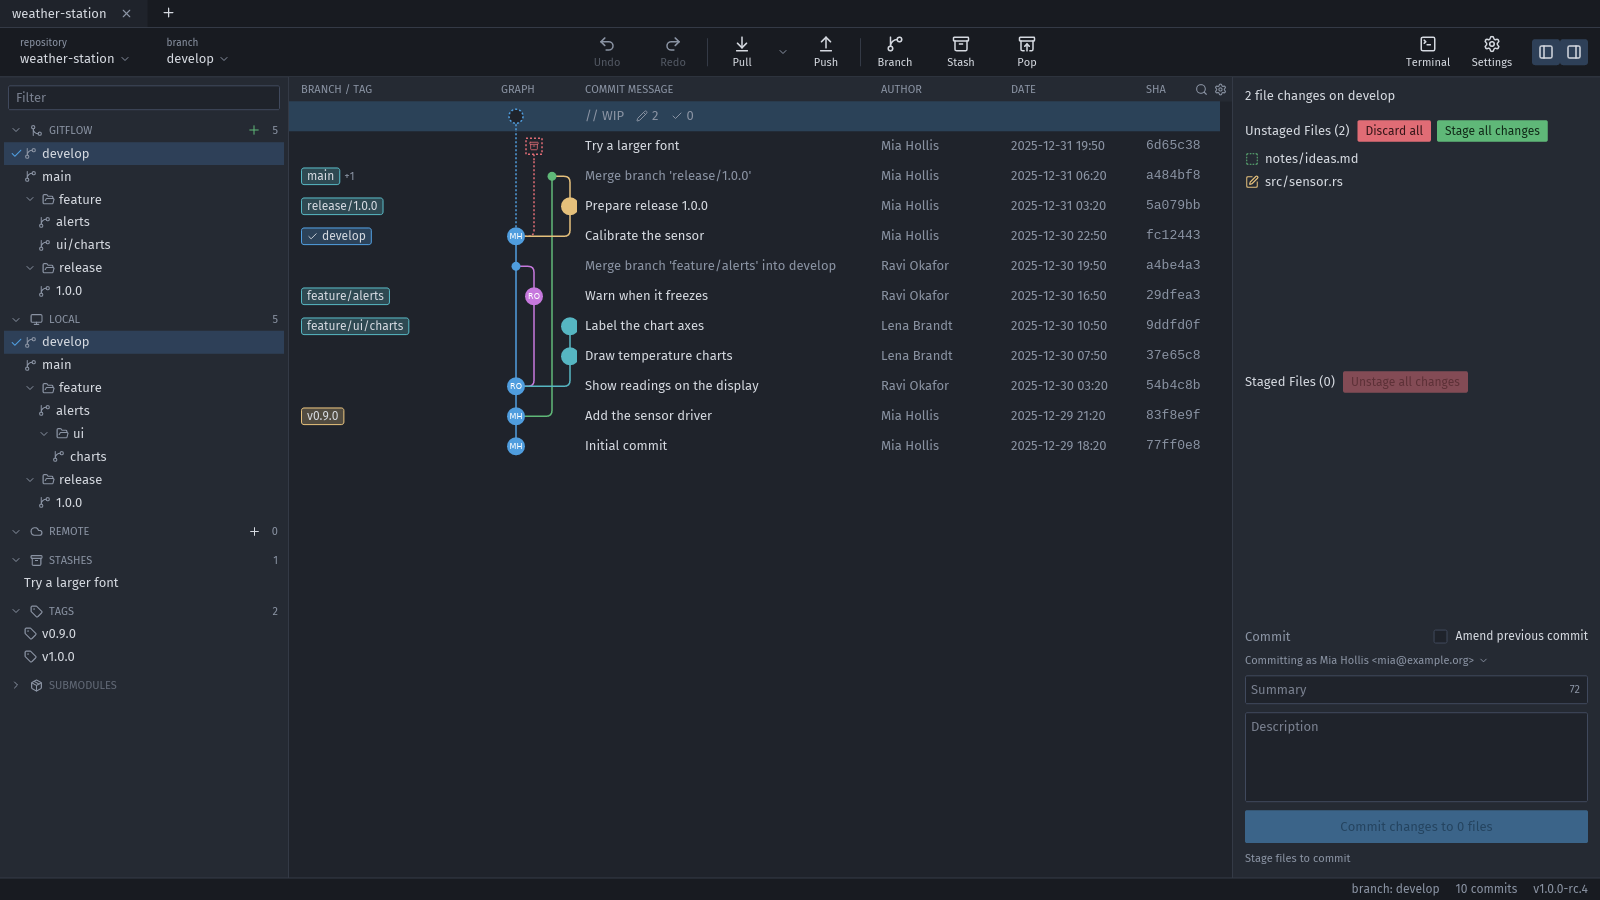
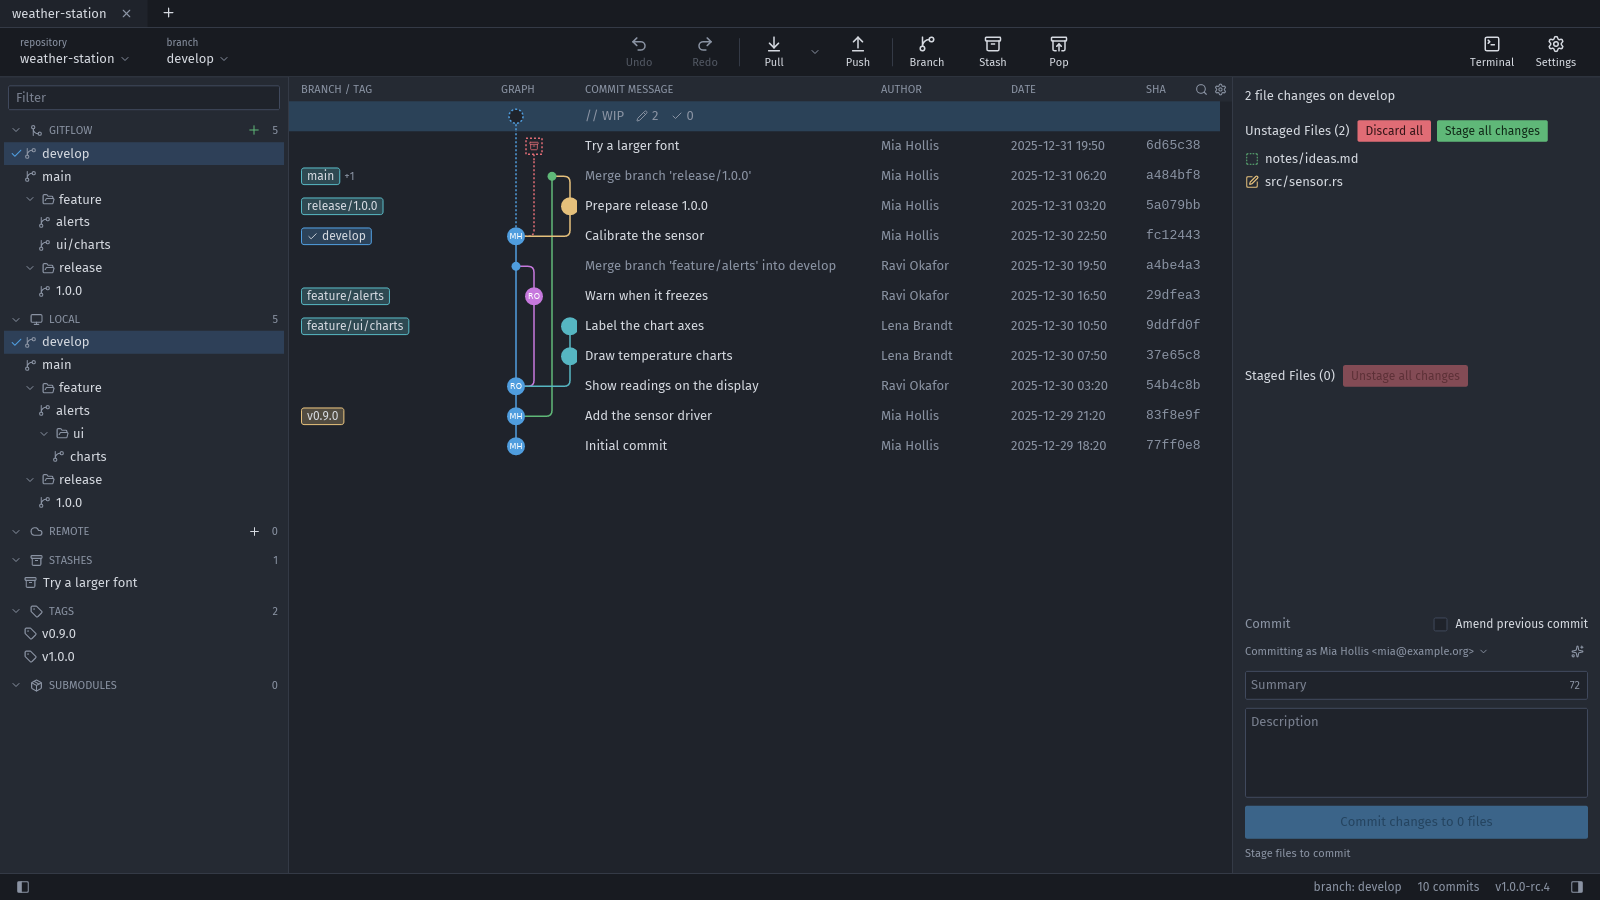
docs: close M12, M13 current
Claude-Session: https://claude.ai/code/session_018B6pd9LNZJ28fgBZrsbgwN

diff --git a/docs/milestones/M12-workflow-polish.md b/docs/milestones/M12-workflow-polish.md
@@ -76,19 +76,19 @@ Open:
 
 ## Milestone acceptance
 
-- [ ] Selected files deselect on click; hover shows only Stage/Unstage.
-- [ ] Remote websites open from the context menu and the palette for all URL forms; local remotes show no entry.
-- [ ] Conflict view navigation and headers like GitKraken.
-- [ ] Merge, rebase, cherry-pick, revert and stash conflicts show the graph row, the panel header, Conflicted/Resolved Files, "Mark all resolved" and the commit/abort buttons; the tab banner is gone; every state has a visible way back (ADR-044).
-- [ ] Submodules: status, update (also all), open in tab, out-of-date toast; works with nested submodules.
-- [ ] Informational errors appear as toasts with plain-language text and details; decisions stay modals.
-- [ ] Every action listed under "Undo" in the decisions table is undoable and redoable with the stated preconditions; `docs/user/undo.md` complete (ADR-043).
-- [ ] STASHES shows folders; a stash can be renamed in place (position kept); undo and redo restore the exact stash list.
-- [ ] Several branches and tags can be selected with Ctrl/Shift and deleted in one step; the local part is one undo step; remote deletion is confirmed as not undoable.
-- [ ] The palette toggles every boolean setting, offers the listed choices and jumps to any setting.
-- [ ] The sparkle button opens the commit message prompt; disabled without staged changes.
-- [ ] WSL repositories show the notice and the badge, refresh by polling, and "dubious ownership" offers "Trust this repository…".
-- [ ] User guide, UX-PARITY, release checklist and CHANGELOG updated; `./scripts/check.sh` green; CI green.
+- [x] Selected files deselect on click; hover shows only Stage/Unstage.
+- [x] Remote websites open from the context menu and the palette for all URL forms; local remotes show no entry.
+- [x] Conflict view navigation and headers like GitKraken.
+- [x] Merge, rebase, cherry-pick, revert and stash conflicts show the graph row, the panel header, Conflicted/Resolved Files, "Mark all resolved" and the commit/abort buttons; the tab banner is gone; every state has a visible way back (ADR-044).
+- [x] Submodules: status, update (also all), open in tab, out-of-date toast; works with nested submodules.
+- [x] Informational errors appear as toasts with plain-language text and details; decisions stay modals.
+- [x] Every action listed under "Undo" in the decisions table is undoable and redoable with the stated preconditions; `docs/user/undo.md` complete (ADR-043).
+- [x] STASHES shows folders; a stash can be renamed in place (position kept); undo and redo restore the exact stash list.
+- [x] Several branches and tags can be selected with Ctrl/Shift and deleted in one step; the local part is one undo step; remote deletion is confirmed as not undoable.
+- [x] The palette toggles every boolean setting, offers the listed choices and jumps to any setting.
+- [x] The sparkle button opens the commit message prompt; disabled without staged changes.
+- [x] WSL repositories show the notice and the badge, refresh by polling, and "dubious ownership" offers "Trust this repository…".
+- [x] User guide, UX-PARITY, release checklist and CHANGELOG updated; `./scripts/check.sh` green; CI green.
 
 No release (ADR-042): when all tasks are done, continue with M13.
 

diff --git a/docs/ROADMAP.md b/docs/ROADMAP.md
@@ -2,7 +2,7 @@
 
 ## Current milestone
 
-**M12 – Workflow polish** → [`milestones/M12-workflow-polish.md`](milestones/M12-workflow-polish.md)
+**M13 – Git flow graph layout** → [`milestones/M13-gitflow-graph-layout.md`](milestones/M13-gitflow-graph-layout.md)
 
 Single release line (ADR-042): everything from M7 on ships with **1.0.0**. Milestones end without a release; Claude Code continues with the next planned milestone. 1.0.0 (M6-15) is released from `develop` after M14 and the maintainer's full run of `docs/RELEASE-CHECKLIST.md`, only when the maintainer asks.
 
@@ -28,8 +28,8 @@ Safe to use for beginners: every local action can be undone and lands exactly in
 | M9 | 1.0.0 | Fixes and consistency | Done |
 | M10 | 1.0.0 | Clone, init and Git settings | Done |
 | M11 | 1.0.0 | Graph columns, themes and syntax highlighting | Done |
-| M12 | 1.0.0 | Workflow polish | Current |
-| M13 | 1.0.0 | Git flow graph layout | Planned |
+| M12 | 1.0.0 | Workflow polish | Done |
+| M13 | 1.0.0 | Git flow graph layout | Current |
 | M14 | 1.0.0 | Commit details like GitKraken | Planned |
 
 The planning chat details the next milestones ahead of time so that Claude Code never waits (ADR-042).
@@ -95,7 +95,7 @@ Details: [`milestones/M10-clone-init-settings.md`](milestones/M10-clone-init-set
 
 Details: [`milestones/M11-graph-themes-highlighting.md`](milestones/M11-graph-themes-highlighting.md).
 
-### M12 – Workflow polish (current)
+### M12 – Workflow polish (done)
 
 - File lists: a click on the selected file deselects it (the diff closes); hover shows only Stage/Unstage, per-file Discard moves to the context menu (deviation, maintainer decision 2026-11-10).
 - Remotes: "Open on GitHub/GitLab/Bitbucket" (other hosts "Open in browser") in the remote context menu and the palette; repository start page only, URL derived offline.
@@ -103,10 +103,11 @@ Details: [`milestones/M11-graph-themes-highlighting.md`](milestones/M11-graph-th
 - Submodules: list with status (not initialized, out of date, modified), Update/Initialize, out-of-date hint after checkout and pull, double click opens in a new tab, section always shown with its count like GitKraken. No add/remove.
 - Errors as non-modal toasts (bottom left like GitKraken) with plain-language text, Details and Copy; a modal only when a decision is needed; plain-language texts for common Git errors.
 - Undo coverage (ADR-043): stash push and drop, stage/unstage, "mark resolved", the local part of pull, remotes and upstream, submodule update; settings are not undo entries (ADR-043 amended).
+- Also done: STASHES folders and rename, multi-selection with bulk delete, palette settings toggles and deep links (Ctrl+Shift+P), commit prompt button, WSL notice and trust prompt; fixes: panel toggles in the status bar, Classic Dark removed (ADR-054).
 
 Details: [`milestones/M12-workflow-polish.md`](milestones/M12-workflow-polish.md).
 
-### M13 – Git flow graph layout (planned)
+### M13 – Git flow graph layout (current)
 
 When Git flow is initialized, an optional layout draws the graph like the classic Git flow diagram: fixed lane groups from left to right (production, hotfix, release, development, feature/other), one color per type, built on `LaneHints` (M2-15).
 

diff --git a/docs/PLANNING-HANDOVER.md b/docs/PLANNING-HANDOVER.md
@@ -105,6 +105,7 @@ One line per milestone: version, date, scope, notable deviations.
 | M9 Fixes and consistency | 1.0.0 (unreleased) | 2026-11-11 | Stash pop/apply conflicts with banner, undo/redo by snapshot and Drop stash; discard of conflicted files; reset on HEAD; unmerged index entries recorded around resets; sharp icons at fractional scales; left panel order and GITFLOW tree like GitKraken; summary counter inside the field; undo list with "Cannot be undone" | M9-01 and M9-02 on one branch (the outcome travels in the undo entry); the banner's Drop stash deletes without a second confirmation; GITFLOW keeps the remainder after the prefix as one label; icon sharpness on wgpu still to confirm on Windows (checklist 7c) |
 | M11 Graph columns, themes and syntax highlighting | 1.0.0 (unreleased) | 2026-11-11 | Style tokens (an extra theme built and removed again, ADR-054), column widths with horizontal scrolling and gear menu, stash node, Preferences → Editor, word wrap, syntax highlighting (syntect + two-face), tree order and tag folders, start buttons, Preferences modal, panel toggles, README screenshot fixture | Column model changed by planning update 3 (every column own width, horizontal scrolling); OneHalfDark/GitHub as code themes (no VS Dark+ in two-face); pure Rust regex engine (1 MB highlight 3.4 s in the background) |
 | M10 Clone, init and Git settings | 1.0.0 (unreleased) | 2026-11-11 | New Tab start screen, clone, init with `.gitignore` templates, default branch name, signing settings and signature badge, commit template, commit message prompt, Templates page with stash message template, prune/.orig/long paths/toolbar labels, external editor per repository | Template's first line now prefills the summary, apply/remove-comments default on; SSH signatures without allowed signers file read "key not available"; Preferences → Templates also holds the prompt (planning update 1) |
+| M12 Workflow polish | 1.0.0 (unreleased) | 2026-11-12 | File lists deselect, toasts and plain-language errors, remote links, conflict navigation, operation state like GitKraken, submodules, undo for the remaining local actions, stash folders and rename, multi-selection and bulk delete, palette settings, commit prompt button, WSL notice and trust prompt | Panel toggles moved to the status bar, Classic Dark removed (ADR-054), planning update 4 (M13-06, M13-07) |
 | M6 Release readiness | 1.0.0 | in progress | Done 2026-11-06 by Claude Code: identity, GPL-3.0-or-later with cargo-deny and notices, About dialog, app icon, crash reports, opt-in update check, accessibility pass, packaging (cargo-packager), release workflow (dry run green), user guide; public-repo files and the release checklist prepared | Open for the maintainer: M6-10 SignPath, M6-11 approval, M6-13 checklist run, M6-14 rc.1 (tag and going public), M6-15. MSI installs per machine (ADR-031); "About" in palette and Preferences (no gear menu); headless UI checks with `iced_test` (ADR-035) because the Windows desktop was locked |
 
 ## 6. Pending changes

diff --git a/docs/HANDOVER.md b/docs/HANDOVER.md
@@ -20,9 +20,9 @@ Hand-off from the planning phase (claude.ai chat with the maintainer) to impleme
 - Read via gitoxide; write via the `git` CLI (from M2).
 - Details: `docs/ROADMAP.md`, `docs/DECISIONS.md`, `docs/UX-PARITY.md`.
 
-## Current state (single release line to 1.0.0, ADR-042; M11 done, M12 current, 2026-11-11)
+## Current state (single release line to 1.0.0, ADR-042; M12 done, M13 current, 2026-11-12)
 
-- M12 (current, on `develop`): tasks M12-01 … M12-14 done. Planning update 4 (2026-11-12): M13-06 ref menus and M13-07 file menus like GitKraken.
+- M12 (2026-11-12, on `develop`): done. Deselect on click and Stage/Unstage-only hover; toasts with plain-language errors (ADR-049); remote website links; conflict navigation and headers; operation state like GitKraken (graph row, details header, Conflicted/Resolved Files, Mark all resolved, Commit and merge / Abort); submodules; undo for stash push/drop/rename, stage/unstage, mark resolved, pull, remotes, upstream, submodule update; STASHES folders; multi-selection and bulk delete; palette settings toggles and deep links; commit prompt button; WSL notice, polling watcher and trust prompt (ADR-053). Fixes on the way: panel toggles in the status bar with filled icons, Classic Dark removed (ADR-054), prompt button look, CI (macOS key names, test identities, ownership test). Planning update 4 (2026-11-12): M13-06 ref menus and M13-07 file menus like GitKraken.
 
 - M11 (2026-11-11, on `develop`): done. Style tokens (the extra theme built here was removed again on 2026-11-12, ADR-054); graph columns with own widths for every column, double click to fit, gear menu and Preferences options, horizontal scrolling with the header; stash node and "WIP on <branch>" label; Preferences → Editor (font, size, tab size, line numbers, word wrap, syntax highlighting); syntax highlighting with syntect/two-face in diffs, blame, file history and the conflict view; tree order branches before folders and tag folders; accent start buttons; Preferences as a modal; panel toggles; README screenshot from a fixture (`scripts/screenshot.sh`); docs, performance and release checklist 7e. Also: tooling (`just`, `dist` profile, more release targets, ADR-052), CI Linux jobs on `ubuntu-24.04` with a tolerant apt step, planning update 3 (M11-16, M12-13, M12-14, ADR-053).
 
